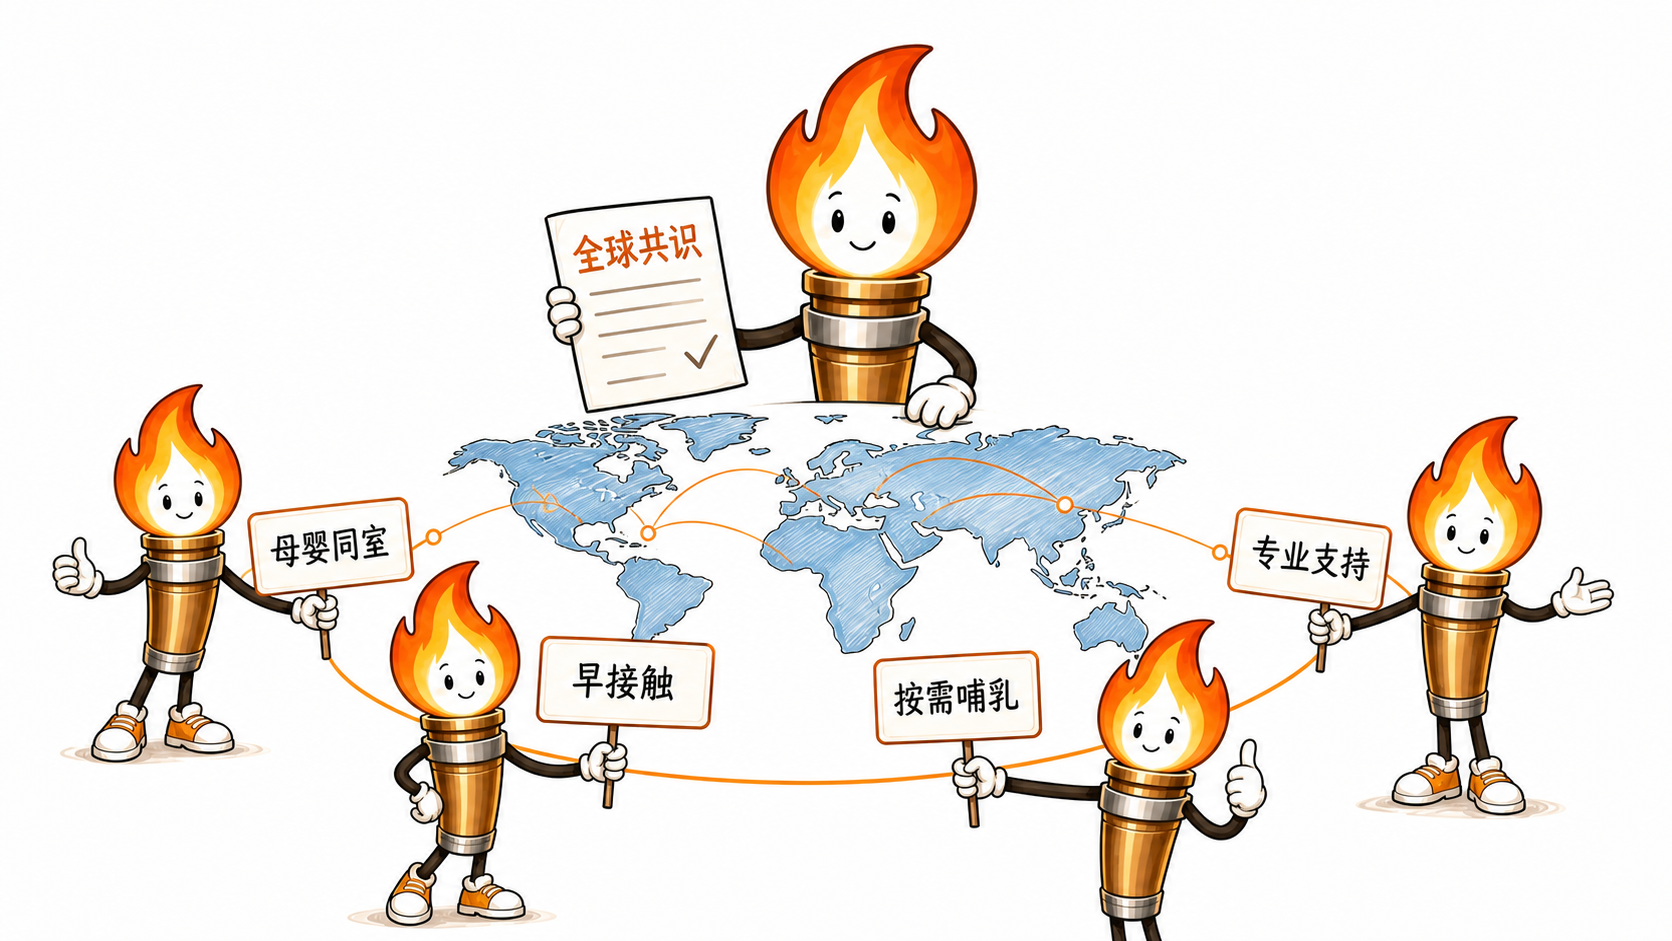
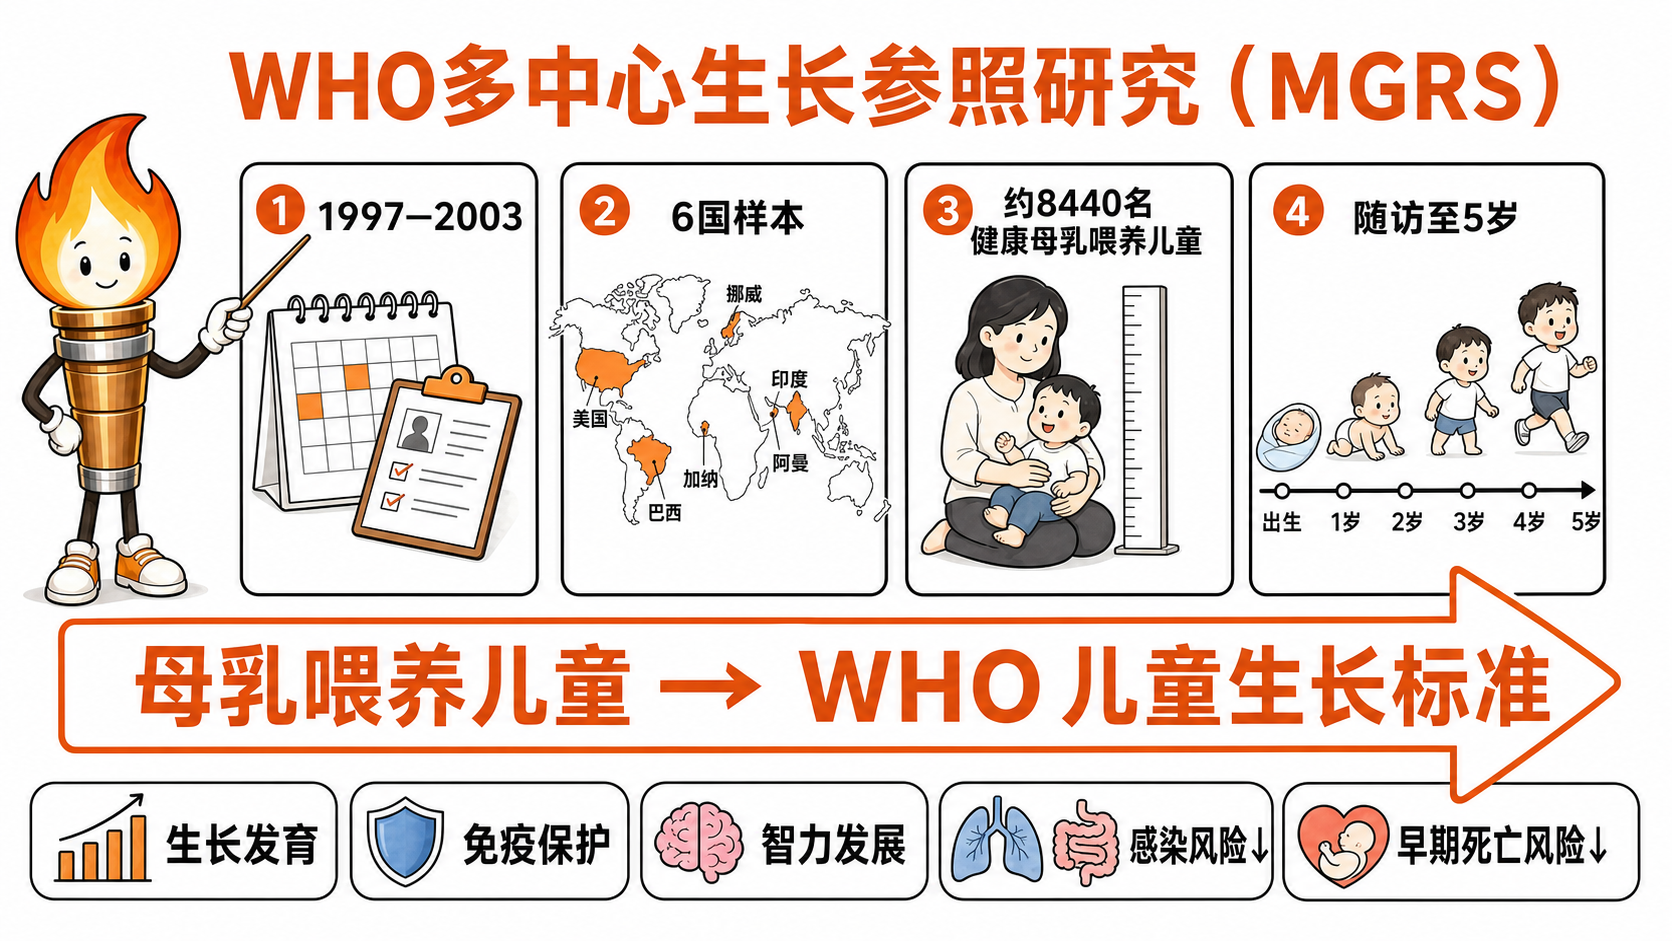
Clarify WHO growth study illustration

diff --git a/chapters/认知与备孕.md b/chapters/认知与备孕.md
@@ -145,7 +145,7 @@
 
 世界卫生组织（World Health Organization，简称WHO）是联合国下属的专门机构，负责制定全球卫生目标和战略，为各国提供技术指导和建议。联合国儿童基金会（United Nations Children's Fund，简称UNICEF）致力于在全球范围内促进和维护儿童生存权、发展权、受保护权和参与权的组织。
 
-在世界卫生组织和联合国儿童基金会发起“纯母乳喂养”倡议之前，各国医疗机构使用的儿童生长指南并非完全基于母乳喂养儿童的数据，其中夹杂了大量人工喂养儿童的样本，导致标准存在偏差。为了为全球提供更科学、精准的儿童生长数据，世界卫生组织于1997年至2003年间联合联合国儿童基金会，在巴西、加拿大、加纳、印度、挪威和阿曼六国，筛选出8440名健康、接受母乳喂养的儿童进行系统随访，直至5岁。研究结果表明，纯母乳喂养的婴儿在生长发育、免疫力及智力发展方面具有明显优势，尤其在预防呼吸道感染和腹泻等常见传染病方面更为突出。纯母乳喂养不仅显著降低婴儿期疾病的发生率，还有效减少早期死亡风险。
+在世界卫生组织和联合国儿童基金会发起“纯母乳喂养”倡议之前，各国医疗机构使用的儿童生长指南并非完全基于母乳喂养儿童的数据，其中夹杂了大量人工喂养儿童的样本，导致标准存在偏差。为了为全球提供更科学、精准的儿童生长数据，世界卫生组织于1997年至2003年间联合联合国儿童基金会，在巴西、美国、加纳、印度、挪威和阿曼六国，筛选出8440名健康、接受母乳喂养的儿童进行系统随访，直至5岁。研究结果表明，纯母乳喂养的婴儿在生长发育、免疫力及智力发展方面具有明显优势，尤其在预防呼吸道感染和腹泻等常见传染病方面更为突出。纯母乳喂养不仅显著降低婴儿期疾病的发生率，还有效减少早期死亡风险。
 
 ## 抱歉，政府并未实质支持父母
 

diff --git a/chapters/辅食添加.md b/chapters/辅食添加.md
@@ -19,7 +19,7 @@
 
 不早于6个月的科学依据
 
-在纯母乳喂养的章节，我们强调出生至6个月要纯母乳喂养。因此，早于6个月的答案已经明晃晃的错了。世界卫生组织于1997年至2003年间联合联合国儿童基金会，在巴西、加拿大、加纳、印度、挪威和阿曼六国，筛选出8440名健康、接受母乳喂养的儿童进行系统随访，直至5岁（其中1743对母婴进行 0 - 24 月密集随访）。研究结果表明，纯母乳喂养的婴儿在生长发育、免疫力及智力发展方面具有明显优势，尤其在预防呼吸道感染和腹泻等常见传染病方面更为突出。纯母乳喂养不仅显著降低婴儿期疾病的发生率，还有效减少早期死亡风险。
+在纯母乳喂养的章节，我们强调出生至6个月要纯母乳喂养。因此，早于6个月的答案已经明晃晃的错了。世界卫生组织于1997年至2003年间联合联合国儿童基金会，在巴西、美国、加纳、印度、挪威和阿曼六国，筛选出8440名健康、接受母乳喂养的儿童进行系统随访，直至5岁（其中1743对母婴进行 0 - 24 月密集随访）。研究结果表明，纯母乳喂养的婴儿在生长发育、免疫力及智力发展方面具有明显优势，尤其在预防呼吸道感染和腹泻等常见传染病方面更为突出。纯母乳喂养不仅显著降低婴儿期疾病的发生率，还有效减少早期死亡风险。
 
 因为父母被误导，导致大量的宝宝饱受过敏的折磨，这是因为在宝宝6个月前，肠道壁的缝隙很大，蛋白可以穿透肠道壁进入血液，触发人体免疫系统的防御机制。免疫系统一旦标记蛋白为入侵者，就会敌我不分的发起攻击，结果误伤自己。6个月后，宝宝的肠道织起一张保护网（仅有一层细胞的肠道保护膜）阻止蛋白穿过。 此时肠道开始大量分泌消化酶，这才是添加辅食的信号。在宝宝不具备消化能力时添加辅食，可能导致宝宝患上肠胃炎，并时常腹泻，还会增加婴儿得肥胖症、糖尿病、湿疹和乳糜泻的风险。
 